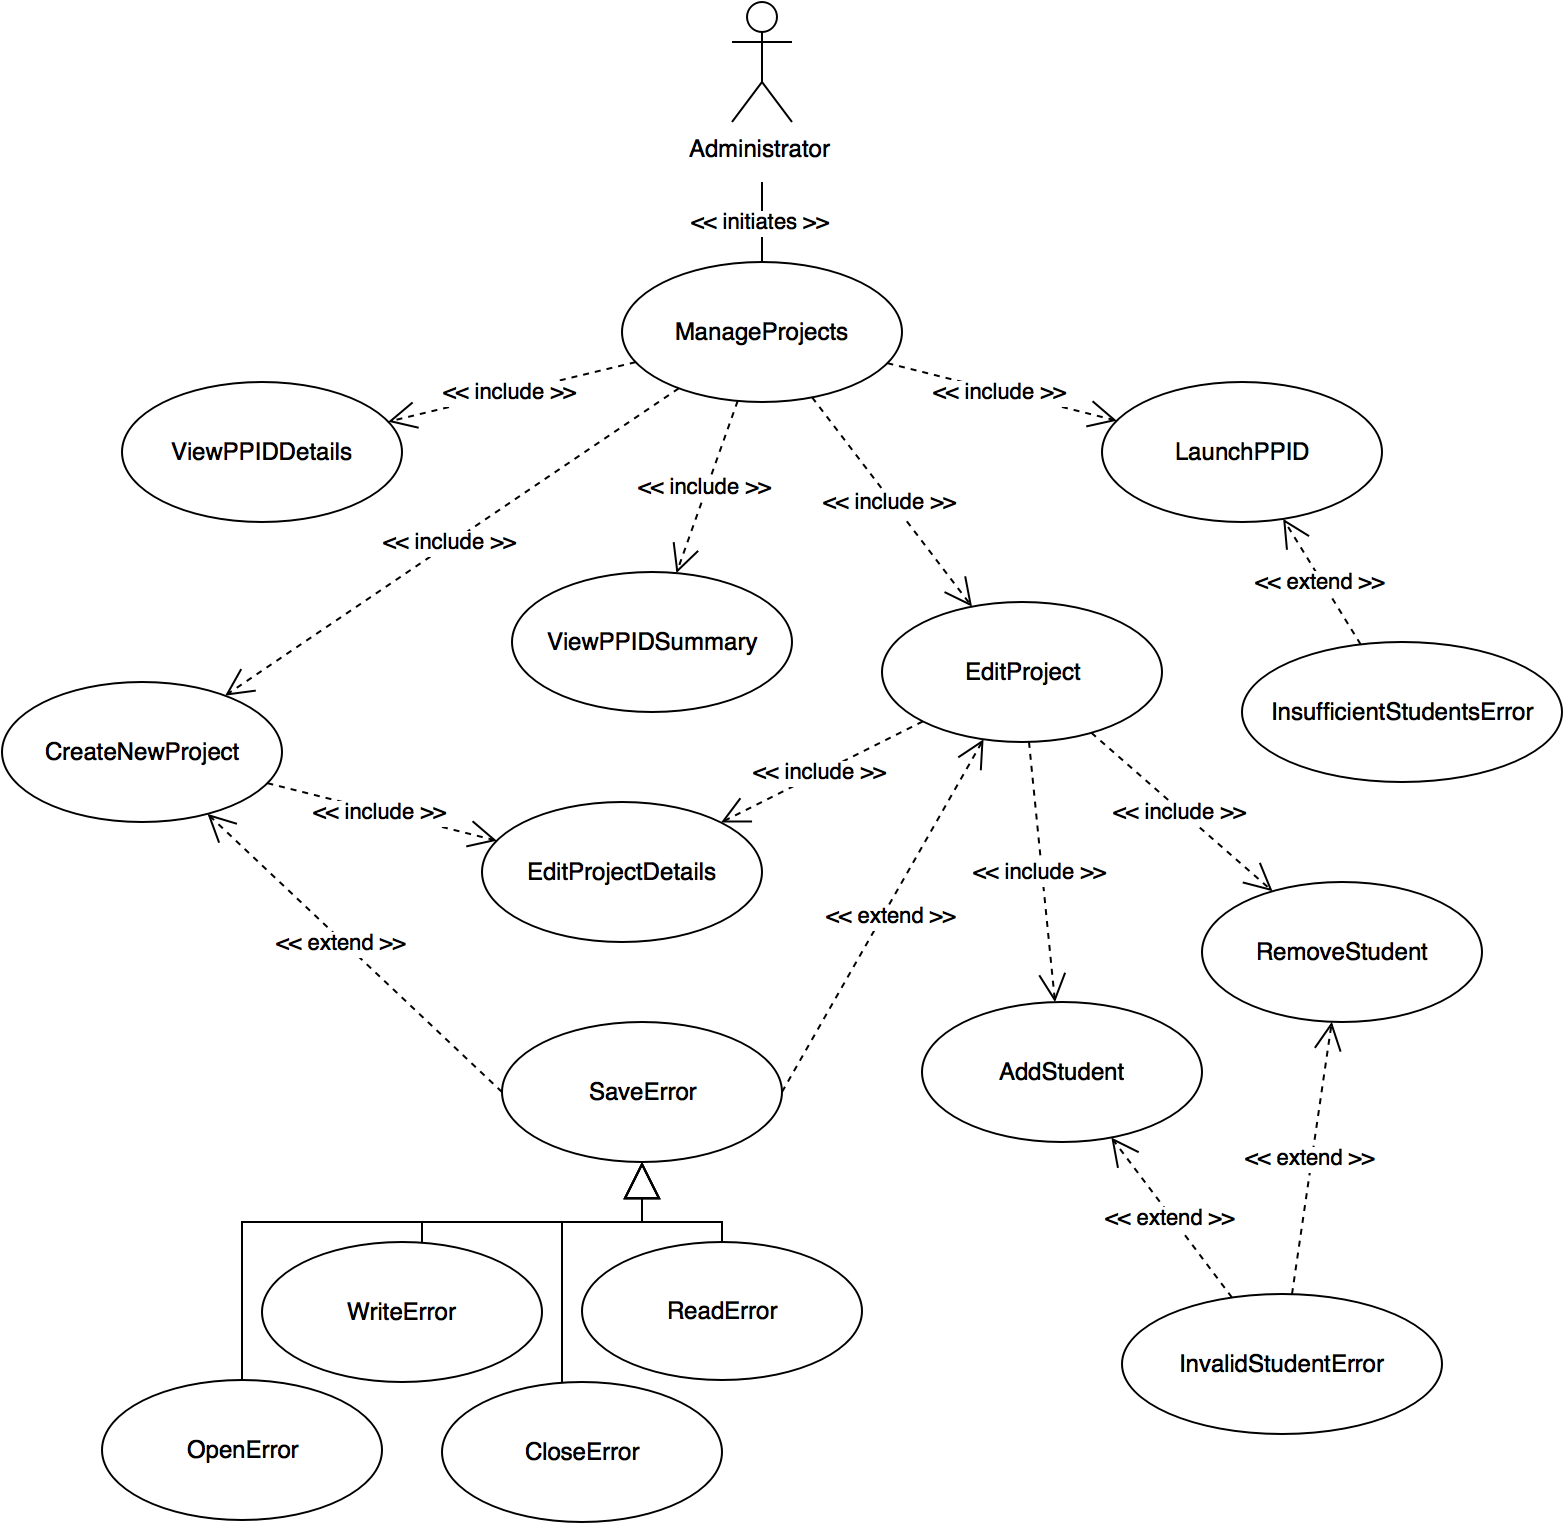
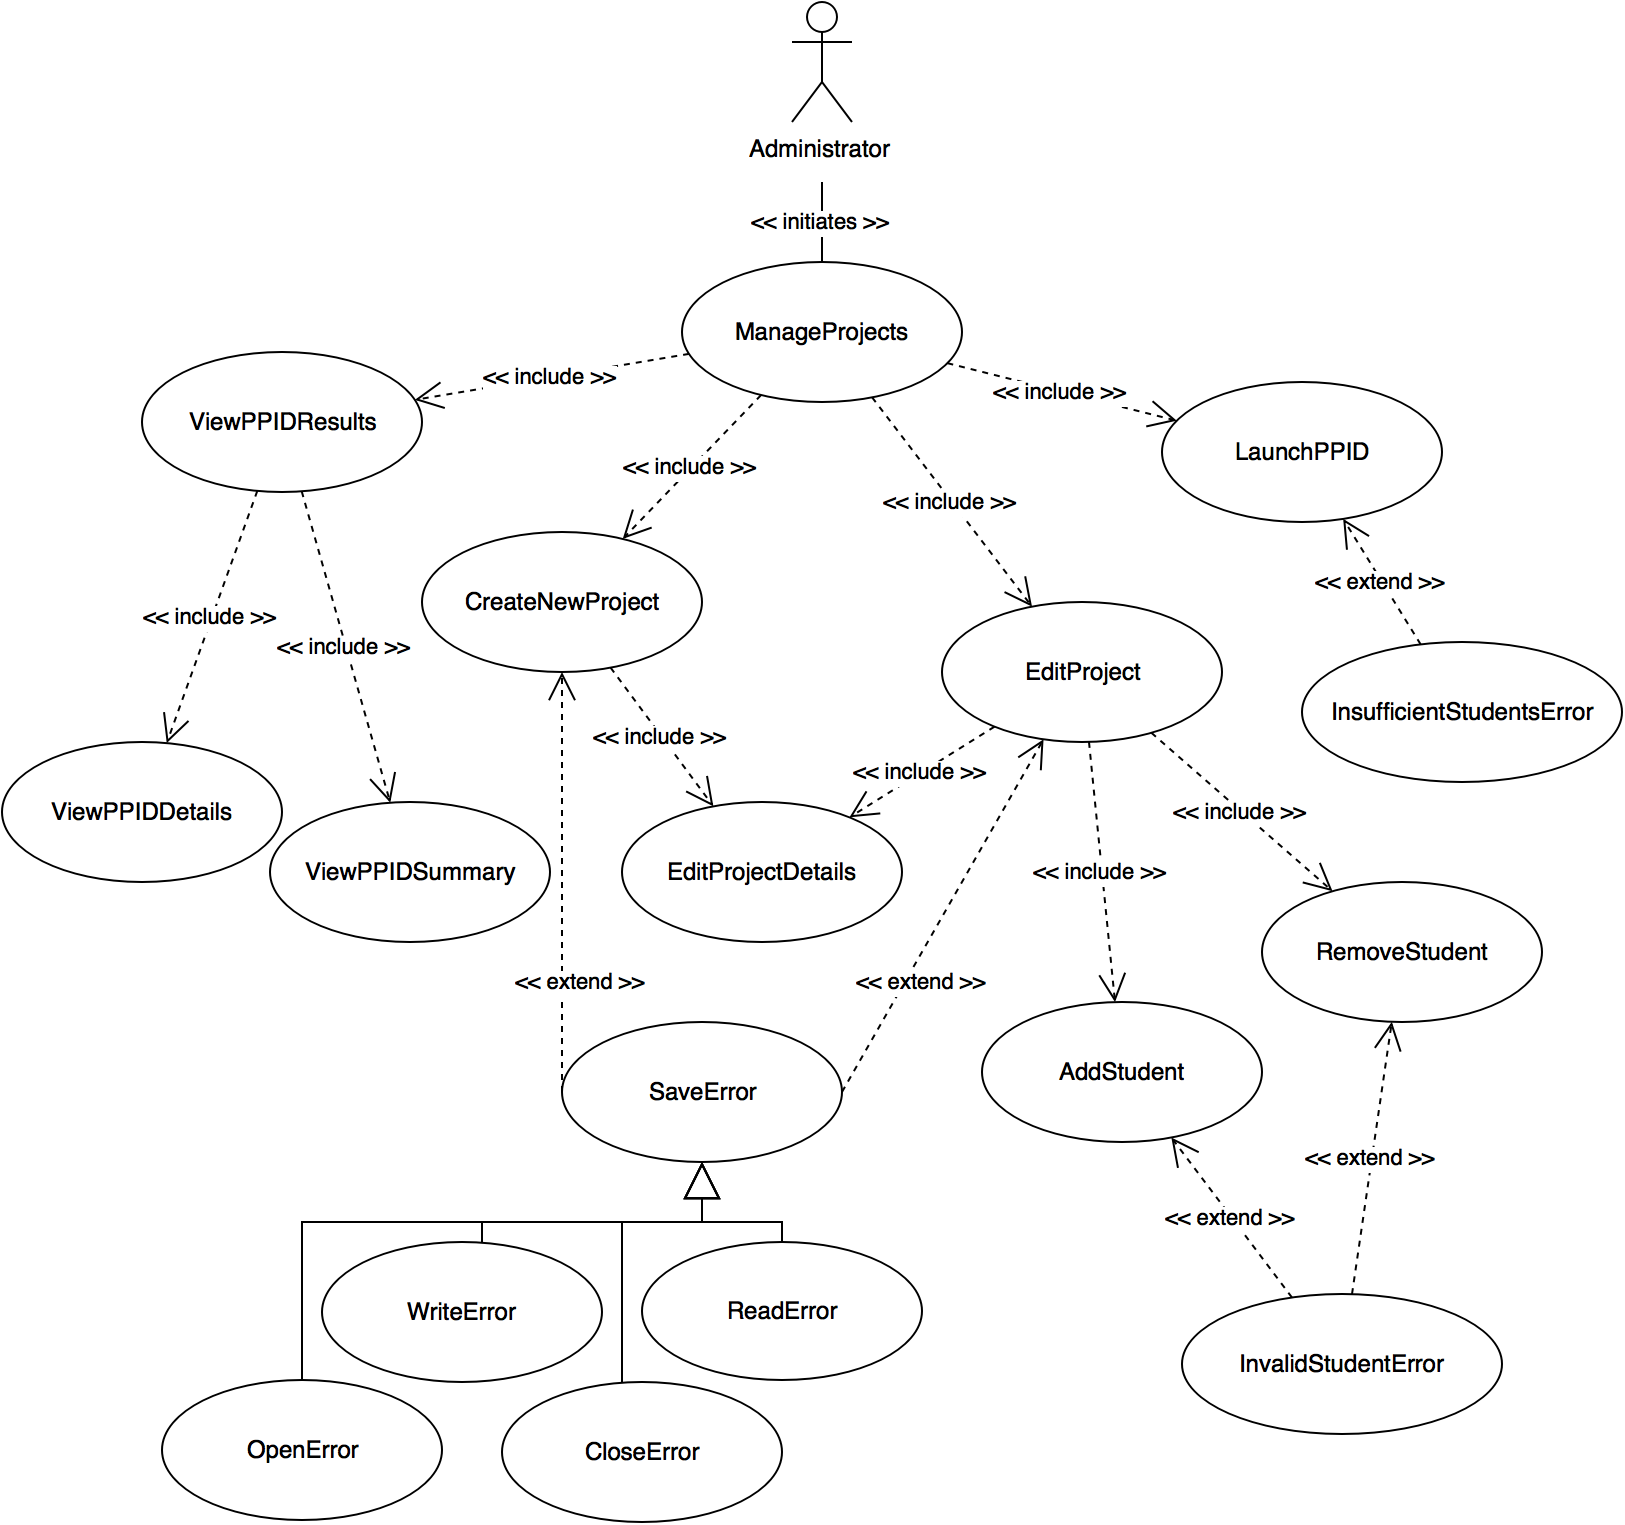
Added extra use case, added use case details

diff --git a/docs/main.tex b/docs/main.tex
@@ -35,10 +35,11 @@
 
 \newusecase{participateinprojects}
 \newusecase{manageprojects}
-\newusecase{viewppiddetails}
 \newusecase{createnewproject}
 \newusecase{launchppid}
+\newusecase{viewppidresults}
 \newusecase{viewppidsummary}
+\newusecase{viewppiddetails}
 \newusecase{editproject}
 \newusecase{editprojectdetails}
 \newusecase{editteamsize}
@@ -212,9 +213,9 @@ the flows for the various possible states of the system.
 		\ccindent{}F-06-02 & \ccindent{}Administrators must be able to add a student to a selected project. \\
 		\ccindent{}F-06-03 & \ccindent{}Administrators must be able to remove a student from a selected project. \\
 		\ccindent{}F-06-04 & \ccindent{}Administrators must be able to modify the project name parameter for individual projects.\\
-		F-07 & Administrators must be able to launch the PPID algorithm for a specific project. \\
-		F-08 & Administrators must be able to view the summary results of the last-run PPID algorithm. \\
-		F-09 & Administrators must be able to view the detailed results of the last-run PPID algorithm. \\
+		F-07 & Administrators must be able to launch the PPID for a specific project. \\
+		F-08 & Administrators must be able to view the summary results of the last-run PPID. \\
+		F-09 & Administrators must be able to view the detailed results of the last-run PPID. \\
 	\end{tabu}
 \end{table}
 
@@ -230,7 +231,7 @@ the flows for the various possible states of the system.
 		NF-04 & Implementation & The software must be written in the C++ language. \\
 		NF-05 & Implementation & The software must use the Qt framework for creating the graphical user interface (G.U.I.). \\
 		NF-06 & Implementation & The software must run in Linux environment. \\
-		NF-07 & Performance & The algorithm will take no longer than 5 seconds to finish running. \\
+		NF-07 & Performance & The PPID will take no longer than 5 seconds to finish running. \\
 		NF-08 & Reliability & Saved data will remain uncorrupted at least 95\% of the time. \\
 		NF-09 & Reliability & Saved information must be backed up. \\
 		NF-10 & Supportability & The system must be extensible to a client/server architecture. \\
@@ -260,7 +261,7 @@ the flows for the various possible states of the system.
 		\participateinprojects{} & ParticipateInProjects & The student accesses and can modify their own profile details 
 		(includes project participation details)\\
 		\manageprojects{} & ManageProjects & The Administrator manages current project as well as having the option to 
-		create a new instance of a project (includes manipulating student participation and access to the PPID algorithm and its results). \\
+		create a new instance of a project (includes manipulating student participation and access to the PPID and its results). \\
 	\end{tabu}
 \end{table}
 
@@ -286,11 +287,11 @@ the flows for the various possible states of the system.
 	\caption{Detailed Use Case Descriptions - Administrators}
 	\vspace{1em}
 	\begin{tabu} to \textwidth {l >{\bf}l X}
-		\viewppiddetails{} & ViewPPIDDetails & The Administrator views the detailed summary of the decisions that the last-run PPID
-		algorithm made.\\
 		\createnewproject{} & CreateNewProject & The Administrator creates a new instance of a project.\\
-		\launchppid{} & LaunchPPID & The Administrator applies the PPID Algorithm to a specified project.\\
-		\viewppidsummary{} & ViewPPIDSummary & The Administrator views the results of the last-run PPID algorithm.\\
+		\launchppid{} & LaunchPPID & The Administrator runs the PPID for a specified project.\\
+		\viewppidresults{} & ViewPPIDResults & The Administrator views the results of the PPID for a project. \\
+		\viewppidsummary{} & ViewPPIDSummary & The Administrator views a summary of the groups that are created. \\
+		\viewppiddetails{} & ViewPPIDDetails & The Administrator views a detailed analysis of the grouping decisions. \\
 		\editproject{} & EditProject & The Administrator modifies an aspect of the project (includes student participation 
 		and project parameters).\\
 		\editprojectdetails{} & EditProjectDetails & The Administrator modifies the parameters of a specified project.\\
@@ -330,7 +331,7 @@ the flows for the various possible states of the system.
 		\projectexistserror{} & ProjectExistsError & The system reports that a project with the given name already exists.\\
 		\invalidstudenterror{} & InvalidStudentError & The system reports that an invalid student, be it no student or a non-existent student, was selected to carry out the operation.\\
 		\insufficientstudentserror{} & InsufficientStudentsError & The system reports that there are not enough students registered in project to
-		 run the PPID algorithm.\\
+		 run the PPID.\\
         \invalidprojecterror{} & InvalidProjectError & The system reports that an invalid project, be it no project or a non-existent project, was selected to carry out the operation.\\
 	\end{tabu}
 \end{table}
@@ -344,27 +345,23 @@ the flows for the various possible states of the system.
 
 		Flow of Events & 
 	    \begin{enumerate}[topsep=-1em]
-		    \item[1.] The Student begins the cuPID process
+		    \item[1.] The Student begins the cuPID process.
 			\begin{enumerate}
-				\item[2.] The Student is presented with a menu from the system. Options of: joining a project, leaving a project, or editing their profile for a project
+				\item[2.] The Student is presented with a menu from the system. Options of: joining a project, leaving a project, or editing their profile for a project.
+				\item[3.] If the Student chooses to edit their profile, the system brings up a menu of profile elements that may be modified. The Student may choose to edit their personal details (include use case \textbf{EditPersonalValues}) or to edit their desired partner values (include use case \textbf{EditDesiredValues}).
+				\item[4.] If the Student chooses to join a project, the system presents a list of projects to join (include use case \textbf{JoinProject}).
+				\item[5.] If the Student chooses to leave a project, the system presents a list of their joined projects to leave (include use case \textbf{LeaveProject}).
 			\end{enumerate}
-
 		\end{enumerate} \\
 
-		Entry Conditions &
-		\begin{itemize}[topsep=-1em]
-			\item  
-        \end{itemize} \\
+		Entry Conditions & \\
 
-		Exit Conditions &
-		\begin{itemize}[topsep=-1em]
-			\item 
-        \end{itemize} \\
+		Exit Conditions & \\ % KEVIN_QUESTION Do we need an exit condition?
 
 		Quality Requirements &
 		\begin{itemize}[topsep=-1em]
-			\item 
-        \end{itemize} \\
+			\item The user must be operating cuPID as a Student.
+		\end{itemize} \\
 
 		Traceability & F-01, F-02, F-03, F-04\\
 
@@ -380,66 +377,28 @@ the flows for the various possible states of the system.
         Participating Actors & Initiated by Administrator \\
 		Flow of Events & 
 	    \begin{enumerate}[topsep=-1em]
-		    \item lots of stuff lots of stuff lots of stuff lots of stuff lots of stuff lots of stuff lots of stuff lots of stuff lots of stuff lots of stuff
-		    \item other stuff lots of stuff lots of stuff lots of stuff lots of stuff lots of stuff lots of stuff lots of stuff
+		    \item[1.] The Administrator begins the cuPID process.
+			\begin{enumerate}
+				\item[2.] The Administrator is presented with a menu from the system. It has the options of: creating a new project, editing a project, launching the PPID, viewing PPID results.
+				\item[3.] If the Administrator chooses to create a new project, the system brings up a menu for creating a new project (include use case \textbf{CreateNewProject}).
+				\item[4.] If the Administrator chooses to edit a project, the system brings up a list of projects to edit (include use case \textbf{EditProject}).
+				\item[5.] If the Administrator chooses to launch the PPID, the system brings up a list of projects (include use case \textbf{LaunchPPID}).
+				\item[6.] If the Administrator chooses to view PPID results, the systems brings up a list of projects with PPID results (include use case \textbf{ViewPPIDResults}).
+			\end{enumerate}
 		\end{enumerate} \\
 
-		Entry Conditions &
-		\begin{itemize}[topsep=-1em]
-		    \item lots of stuff lots of stuff lots of stuff lots of stuff lots of stuff lots of stuff lots of stuff lots of stuff lots of stuff lots of stuff
-		    \item other stuff lots of stuff lots of stuff lots of stuff lots of stuff lots of stuff lots of stuff lots of stuff
-        \end{itemize} \\
+		Entry Conditions & \\
 
-		Exit Conditions &
-		\begin{itemize}[topsep=-1em]
-		    \item lots of stuff lots of stuff lots of stuff lots of stuff lots of stuff lots of stuff lots of stuff lots of stuff lots of stuff lots of stuff
-		    \item other stuff lots of stuff lots of stuff lots of stuff lots of stuff lots of stuff lots of stuff lots of stuff
-        \end{itemize} \\
+		Exit Conditions & \\
 
 		Quality Requirements &
 		\begin{itemize}[topsep=-1em]
-		    \item lots of stuff lots of stuff lots of stuff lots of stuff lots of stuff lots of stuff lots of stuff lots of stuff lots of stuff lots of stuff
-		    \item other stuff lots of stuff lots of stuff lots of stuff lots of stuff lots of stuff lots of stuff lots of stuff
+		    \item The user must be operating cuPID as an Administrator. 
         \end{itemize} \\
 
 		Traceability & F-05, F-06, F-07, F-08, F-09\\
         \toprule
     \end{tabu}
-\end{center}
-
-\begin{center}
-	\begin{tabu} to \textwidth {>{\it}l X}
-		\toprule
-		Use Case Identifier & \viewppiddetails{} \\
-		Name & {\bf ViewPPIDDetails} \\
-		Participating Actors & Initiated by Administrator \\
-		Flow of Events & 
-	    \begin{enumerate}[topsep=-1em]
-		    \item lots of stuff lots of stuff lots of stuff lots of stuff lots of stuff lots of stuff lots of stuff lots of stuff lots of stuff lots of stuff
-		    \item other stuff lots of stuff lots of stuff lots of stuff lots of stuff lots of stuff lots of stuff lots of stuff
-		\end{enumerate} \\
-
-		Entry Conditions &
-		\begin{itemize}[topsep=-1em]
-		    \item lots of stuff lots of stuff lots of stuff lots of stuff lots of stuff lots of stuff lots of stuff lots of stuff lots of stuff lots of stuff
-		    \item other stuff lots of stuff lots of stuff lots of stuff lots of stuff lots of stuff lots of stuff lots of stuff
-        \end{itemize} \\
-
-		Exit Conditions &
-		\begin{itemize}[topsep=-1em]
-		    \item lots of stuff lots of stuff lots of stuff lots of stuff lots of stuff lots of stuff lots of stuff lots of stuff lots of stuff lots of stuff
-		    \item other stuff lots of stuff lots of stuff lots of stuff lots of stuff lots of stuff lots of stuff lots of stuff
-        \end{itemize} \\
-
-		Quality Requirements &
-		\begin{itemize}[topsep=-1em]
-		    \item lots of stuff lots of stuff lots of stuff lots of stuff lots of stuff lots of stuff lots of stuff lots of stuff lots of stuff lots of stuff
-		    \item other stuff lots of stuff lots of stuff lots of stuff lots of stuff lots of stuff lots of stuff lots of stuff
-        \end{itemize} \\
-
-		Traceability & F-09 \\
-		\toprule
-	\end{tabu}
 \end{center}
 
 \begin{center}
@@ -515,6 +474,41 @@ the flows for the various possible states of the system.
 \begin{center}
 	\begin{tabu} to \textwidth {>{\it}l X}
 		\toprule
+		Use Case Identifier & \viewppidresults{} \\
+		Name & {\bf ViewPPIDResults} \\
+		Participating Actors & Initiated by Administrator \\
+		Flow of Events & 
+	    \begin{enumerate}[topsep=-1em]
+		    \item lots of stuff lots of stuff lots of stuff lots of stuff lots of stuff lots of stuff lots of stuff lots of stuff lots of stuff lots of stuff
+		    \item other stuff lots of stuff lots of stuff lots of stuff lots of stuff lots of stuff lots of stuff lots of stuff
+		\end{enumerate} \\
+
+		Entry Conditions &
+		\begin{itemize}[topsep=-1em]
+		    \item lots of stuff lots of stuff lots of stuff lots of stuff lots of stuff lots of stuff lots of stuff lots of stuff lots of stuff lots of stuff
+		    \item other stuff lots of stuff lots of stuff lots of stuff lots of stuff lots of stuff lots of stuff lots of stuff
+        \end{itemize} \\
+
+		Exit Conditions &
+		\begin{itemize}[topsep=-1em]
+		    \item lots of stuff lots of stuff lots of stuff lots of stuff lots of stuff lots of stuff lots of stuff lots of stuff lots of stuff lots of stuff
+		    \item other stuff lots of stuff lots of stuff lots of stuff lots of stuff lots of stuff lots of stuff lots of stuff
+        \end{itemize} \\
+
+		Quality Requirements &
+		\begin{itemize}[topsep=-1em]
+		    \item lots of stuff lots of stuff lots of stuff lots of stuff lots of stuff lots of stuff lots of stuff lots of stuff lots of stuff lots of stuff
+		    \item other stuff lots of stuff lots of stuff lots of stuff lots of stuff lots of stuff lots of stuff lots of stuff
+        \end{itemize} \\
+
+		Traceability & F-08, F-09 \\
+		\toprule
+	\end{tabu}
+\end{center}
+
+\begin{center}
+	\begin{tabu} to \textwidth {>{\it}l X}
+		\toprule
 		Use Case Identifier & \viewppidsummary{} \\
 		Name & {\bf ViewPPIDSummary} \\
 		Participating Actors & Initiated by Administrator \\
@@ -543,6 +537,41 @@ the flows for the various possible states of the system.
         \end{itemize} \\
 
 		Traceability & F-08 \\
+		\toprule
+	\end{tabu}
+\end{center}
+
+\begin{center}
+	\begin{tabu} to \textwidth {>{\it}l X}
+		\toprule
+		Use Case Identifier & \viewppiddetails{} \\
+		Name & {\bf ViewPPIDDetails} \\
+		Participating Actors & Initiated by Administrator \\
+		Flow of Events & 
+	    \begin{enumerate}[topsep=-1em]
+		    \item lots of stuff lots of stuff lots of stuff lots of stuff lots of stuff lots of stuff lots of stuff lots of stuff lots of stuff lots of stuff
+		    \item other stuff lots of stuff lots of stuff lots of stuff lots of stuff lots of stuff lots of stuff lots of stuff
+		\end{enumerate} \\
+
+		Entry Conditions &
+		\begin{itemize}[topsep=-1em]
+		    \item lots of stuff lots of stuff lots of stuff lots of stuff lots of stuff lots of stuff lots of stuff lots of stuff lots of stuff lots of stuff
+		    \item other stuff lots of stuff lots of stuff lots of stuff lots of stuff lots of stuff lots of stuff lots of stuff
+        \end{itemize} \\
+
+		Exit Conditions &
+		\begin{itemize}[topsep=-1em]
+		    \item lots of stuff lots of stuff lots of stuff lots of stuff lots of stuff lots of stuff lots of stuff lots of stuff lots of stuff lots of stuff
+		    \item other stuff lots of stuff lots of stuff lots of stuff lots of stuff lots of stuff lots of stuff lots of stuff
+        \end{itemize} \\
+
+		Quality Requirements &
+		\begin{itemize}[topsep=-1em]
+		    \item lots of stuff lots of stuff lots of stuff lots of stuff lots of stuff lots of stuff lots of stuff lots of stuff lots of stuff lots of stuff
+		    \item other stuff lots of stuff lots of stuff lots of stuff lots of stuff lots of stuff lots of stuff lots of stuff
+        \end{itemize} \\
+
+		Traceability & F-09 \\
 		\toprule
 	\end{tabu}
 \end{center}
